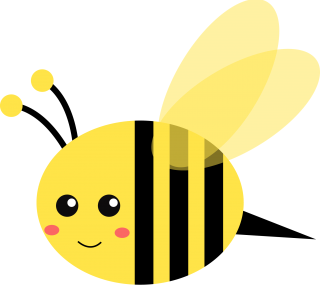
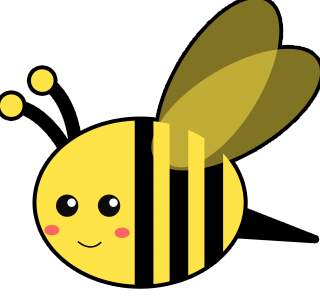
pomniejsze poprawki

Changed region(s): [[0.0, 0.0, 1.0, 0.99]]

diff --git a/src/main/java/com/beehive/BeeApplication.java b/src/main/java/com/beehive/BeeApplication.java
@@ -28,7 +28,7 @@ import java.util.concurrent.TimeUnit;
 import static com.beehive.Hive.hiveSemaphore;
 
 public class BeeApplication extends Application{
-    static Image beeImage = new Image(String.valueOf(BeeApplication.class.getResource("bee.png")));
+    static Image beeImage = new Image(String.valueOf(BeeApplication.class.getResource("beemiarz.png")));
     static List<ImageView> beeImageViews = new ArrayList<>();
     static double hiveX;
     static double hiveY;
@@ -57,15 +57,17 @@ public class BeeApplication extends Application{
         stage.setTitle("Bee Simulator");
         stage.setScene(scene);
         stage.show();
+        stage.getIcons().add(beeImage);
+        stage.resizableProperty().setValue(Boolean.FALSE);
     }
 
     public void StartSimulation() {
         int InitialBees = Integer.parseInt(InitialBeeCountTextField.getText());
         int maxVisits = Integer.parseInt(MaxVisitsTextField.getText());
 
-        hiveX = HiveImageView.getLayoutX();
+        hiveX = HiveImageView.getLayoutX() + 50;
         hiveY = HiveImageView.getLayoutY();
-        simulation = new BeeSimulation(InitialBees, maxVisits, beeImageViews);
+        simulation = new BeeSimulation(InitialBees, maxVisits);
 
         //załadowanie obrazków pszczół i stworzenie ich
         for (int i = 0; i < InitialBees; i++) {
@@ -73,7 +75,7 @@ public class BeeApplication extends Application{
         }
         simulation.start();
 
-        scheduler = Executors.newScheduledThreadPool(1);
+        scheduler = Executors.newScheduledThreadPool(6);
         scheduler.scheduleAtFixedRate(this::updateHiveStatus, 0, 1, TimeUnit.SECONDS);
     }
 
